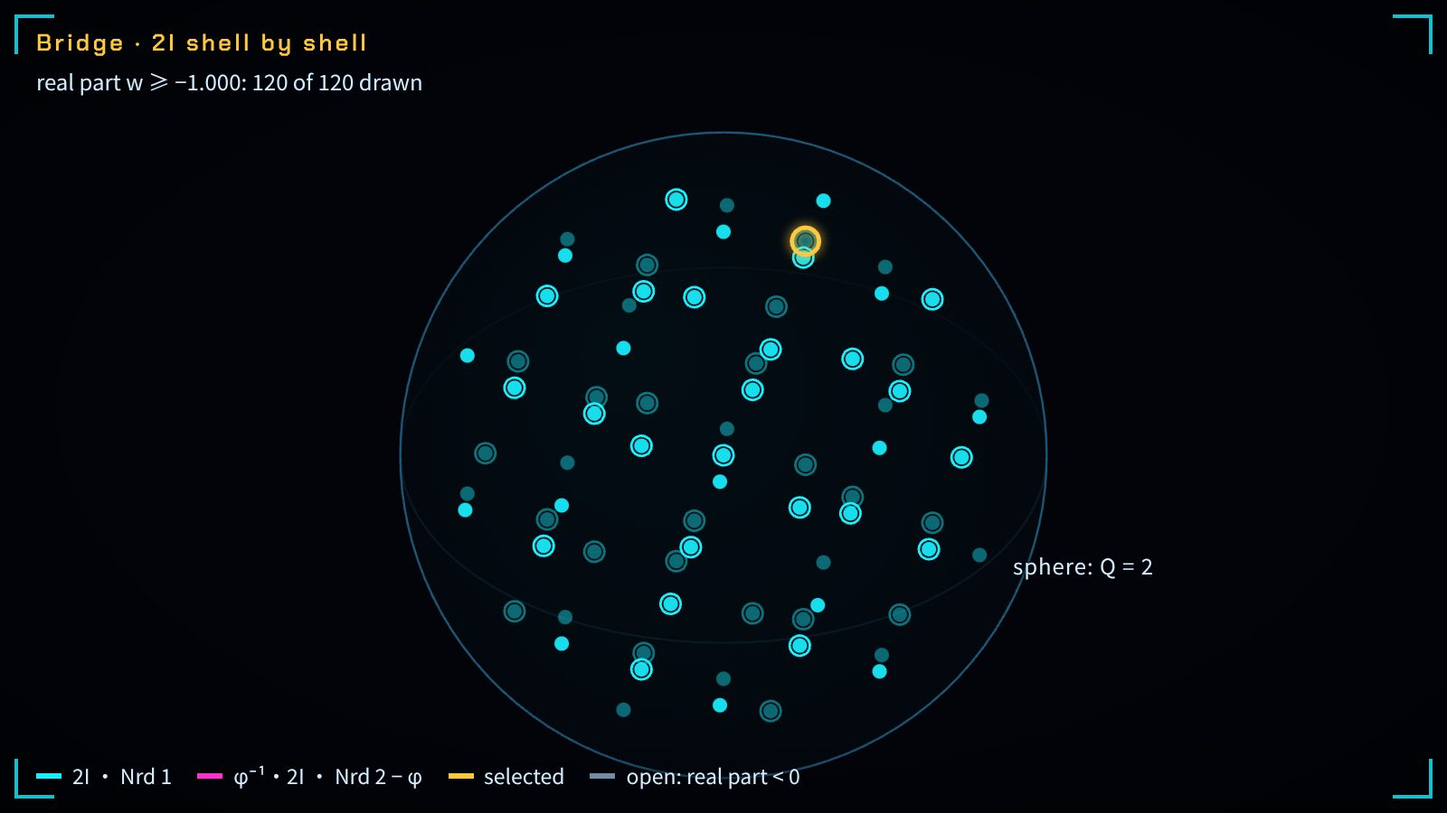
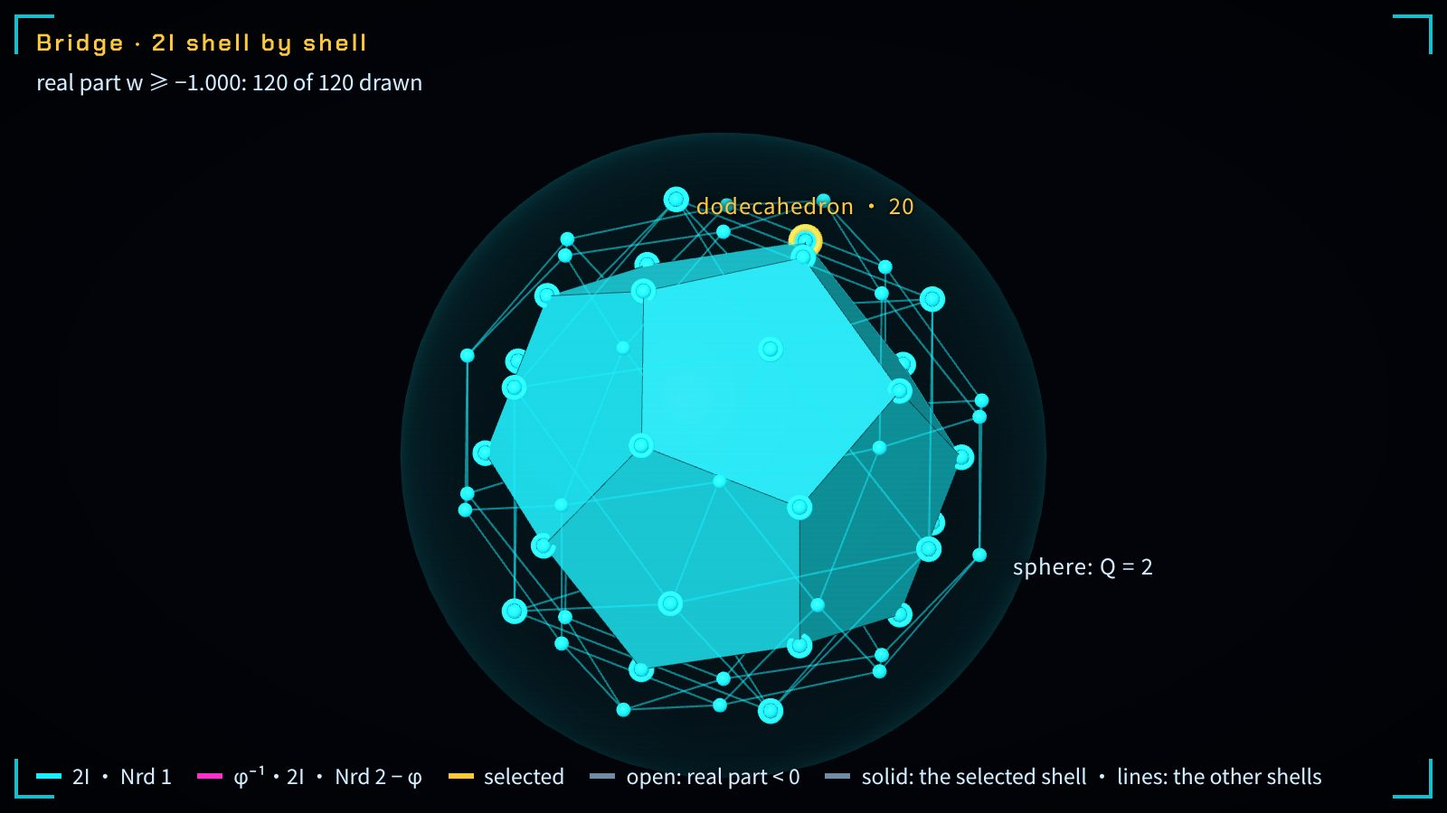
第 32 章黄金桥第一段：2I 的每一层连成凸包，选中那一层画成受光实体
meta-unification-compass 的 icosians 卡原来是一团点，看不出分层。第一段里页面把同一族、
同一个 |w| 的位置连成凸包（12 个为正二十面体、20 个为正十二面体、30 个为截半二十面体），
选中元素那一层画成平面着色的实体，其余各层画棱，舞台标签写出多面体名；读数加一行该层的
顶点、棱、面数，元素按钮加 (φ + φ⁻¹i + j)/2。其余各卡与封面照旧画在二维画布上，静态图不变。
测试用独立算法核对每一层的位置与凸包（最短距离定棱、欧拉公式定面、面平面凸且等边）。

diff --git a/books/quantum-geometry/viz/meta-unification-compass/main.js b/books/quantum-geometry/viz/meta-unification-compass/main.js
@@ -135,6 +135,55 @@
     return sign * A[n - 1][n - 1];
   }
 
+  /* ---------- shells: the elements of one family (2I or φ⁻¹·2I) with one |w|, and the convex hull of their places ----------
+     Each shell is computed from the elements themselves: its distinct places in E∥ (and, for the pure ones, in E⊥),
+     their convex hull by brute force over all triples (a face is a plane that has every place on one side; places on
+     the plane are ordered round the face), and the counts V, E, F with the sizes of the faces. */
+  function hull(pts) {
+    const n = pts.length, faces = [], seen = new Set(), c0 = v3.scale(pts.reduce((a, p) => v3.add(a, p), [0, 0, 0]), 1 / n);
+    const scale = Math.max(...pts.map((p) => v3.len(v3.sub(p, c0))));
+    for (let i = 0; i < n; i++) for (let j = i + 1; j < n; j++) for (let k = j + 1; k < n; k++) {
+      let nm = v3.cross(v3.sub(pts[j], pts[i]), v3.sub(pts[k], pts[i]));
+      const L = v3.len(nm); if (L < 1e-9 * scale * scale) continue;
+      nm = v3.scale(nm, 1 / L);
+      const tol = 1e-9 * scale, on = []; let pos = 0, neg = 0;
+      for (let m = 0; m < n; m++) { const s = v3.dot(nm, v3.sub(pts[m], pts[i])); if (s > tol) pos++; else if (s < -tol) neg++; else on.push(m); }
+      if (pos && neg) continue;
+      const id = on.join(','); if (seen.has(id)) continue; seen.add(id);
+      if (pos) nm = v3.scale(nm, -1);   // outward
+      const fc = v3.scale(on.reduce((a, m) => v3.add(a, pts[m]), [0, 0, 0]), 1 / on.length);
+      const e1 = v3.unit(v3.sub(pts[on[0]], fc)), e2 = v3.cross(nm, e1);
+      on.sort((a, b) => { const pa = v3.sub(pts[a], fc), pb = v3.sub(pts[b], fc); return Math.atan2(v3.dot(pa, e2), v3.dot(pa, e1)) - Math.atan2(v3.dot(pb, e2), v3.dot(pb, e1)); });
+      faces.push({ v: on, n: nm, d: v3.dot(nm, pts[on[0]]) });
+    }
+    const edges = new Set();
+    for (const f of faces) f.v.forEach((a, t) => { const b = f.v[(t + 1) % f.v.length]; edges.add(a < b ? `${a},${b}` : `${b},${a}`); });
+    const sizes = {}; for (const f of faces) sizes[f.v.length] = (sizes[f.v.length] || 0) + 1;
+    return { faces, V: n, E: edges.size, F: faces.length, sizes };
+  }
+  const NAMES = { '12,30,20,3:20': ['正二十面体', 'icosahedron'], '20,30,12,5:12': ['正十二面体', 'dodecahedron'], '30,60,32,3:20,5:12': ['截半二十面体', 'icosidodecahedron'] };
+  const nameOf = (h) => NAMES[[h.V, h.E, h.F, ...Object.keys(h.sizes).sort().map((s) => `${s}:${h.sizes[s]}`)].join(',')] || null;
+  const placeKey = (p) => p.map((x) => (Math.abs(x) < 5e-10 ? 0 : x).toFixed(8)).join(',');
+  const SHELLS = (() => {
+    const out = [];
+    for (const gold of [false, true]) {
+      const ws = [...new Set(ROOTS.filter((R) => R.gold === gold).map((R) => Math.abs(R.w).toFixed(9)))].map(Number).sort((a, b) => b - a);
+      for (const aw of ws) {
+        const members = ROOTS.filter((R) => R.gold === gold && Math.abs(Math.abs(R.w) - aw) < 1e-9).map((R) => R.i);
+        const sh = { gold, w: aw, members, count: members.length };
+        for (const [sp, field] of [['par', 'par'], ['perp', 'perp']]) {
+          if (sp === 'perp' && aw > 1e-9) continue;
+          const places = new Map();
+          for (const i of members) { const p = ROOTS[i][field]; const k = placeKey(p); if (!places.has(k)) places.set(k, p); }
+          const pts = [...places.values()], h = pts.length >= 4 ? hull(pts) : null;
+          sh[sp] = { pts, key: [...places.keys()].sort().join('|'), hull: h, name: h ? nameOf(h) : null, radius: Math.max(...pts.map((p) => v3.len(p))) };
+        }
+        out.push(sh);
+      }
+    }
+    return out;
+  })();
+  const shellOf = (i) => SHELLS.find((s) => s.members.includes(i));
   /* ---------- how to write a coordinate (p + rφ)/2 ---------- */
   function coef(p, r) {
     const v = (p + r * PHI) / 2;
@@ -242,6 +291,14 @@
     onChange: () => paint(),
     onPick: (ev, st) => pickAt(ev, st)
   });
+  // The first leg of the bridge (2I shell by shell) draws its shells as lit solids on a second stage, which follows the
+  // camera of the first: dragging and picking stay with the 2D stage; this one only draws and tells what a solid hides.
+  // Every other picture of the page is drawn on the 2D stage as before.
+  const solid = kit.solid($('stage'), {
+    canvas: $('cvs'), radius: TRV.thumbMode ? 0.38 : 0.36, cy: TRV.figure ? 0.54 : 0.56, yaw: -0.3, pitch: 0.5,
+    rotate: false, onChange: () => paint(), onPick: () => true
+  });
+  const solidLeg = (B) => S.scene === 'bridge' && B.leg === 0;
   function pickAt(ev, st) {
     let best = null, bd = 14;
     if (S.scene === 'compass') {
@@ -252,7 +309,8 @@
     const B = lastBridge || bridgeAt(S.tb);
     // the nearest dot under the pointer; of dots drawn on the same place, the one nearest the viewer
     let bz = -Infinity;
-    ROOTS.forEach((R, i) => { if (!B.vis[i]) return; const w = v3.scale(B.pos[i], DISP), d = st.near(ev, w), z = st.p(w)[2]; if (d < bd - 0.5 || (d < bd + 0.5 && d < 14 && z > bz)) { bd = Math.min(bd, d); bz = z; best = i; } });
+    const hides = solidLeg(B);
+    ROOTS.forEach((R, i) => { if (!B.vis[i]) return; const w = v3.scale(B.pos[i], DISP), d = st.near(ev, w), z = st.p(w)[2]; if (hides && solid.occluded(w, 0.02)) return; if (d < bd - 0.5 || (d < bd + 0.5 && d < 14 && z > bz)) { bd = Math.min(bd, d); bz = z; best = i; } });
     if (best == null) return false;
     cards.mark(null); select(best); return true;
   }
@@ -335,6 +393,65 @@
     }
     st.end();
   }
+  /* ---------- the first leg of the bridge: the shells as a solid and as cages ----------
+     While 2I appears shell by shell, every shell with a hull whose elements are on the stage is drawn. The shell of the
+     selected element (or, when it is not on the stage yet, the newest shell) is a lit, flat-shaded polyhedron; every
+     other shell is a cage of its edges, so that the shells around the solid stay visible and the solid hides what is
+     behind and inside it. */
+  let lastShells = [];
+  function shellsAt(B) {
+    const space = B.leg < 3 || B.alpha < 1e-9 ? 'par' : B.alpha > Math.PI / 2 - 1e-9 ? 'perp' : null;
+    if (!space) return [];
+    const list = [], keys = new Set();
+    for (const sh of SHELLS) {
+      const g = sh[space];
+      if (!g || !g.hull || !sh.members.some((i) => B.vis[i]) || keys.has(g.key)) continue;
+      keys.add(g.key); list.push({ sh, g, space, solid: false });
+    }
+    // the solid: the shell of the selected element; else the shell admitted last (its |w| nearest the cut)
+    let focus = B.vis[S.sel] ? list.find((x) => x.sh.members.includes(S.sel)) : null;
+    if (!focus && list.length) focus = list.slice().sort((x, y) => (B.leg < 2 ? x.sh.w - y.sh.w : y.sh.w - x.sh.w) || (x.sh.gold ? -1 : 1))[0];
+    if (focus) focus.solid = true;
+    return list;
+  }
+  /** The polyhedron of a shell on the stage: its vertices and faces. */
+  const solidOf = (s) => ({ vertices: s.g.pts.map((p) => v3.scale(p, DISP)), faces: s.g.hull.faces.map((f) => f.v.slice()) });
+  /** The edges of a shell (pairs of vertex indices). */
+  const edgesOf = (s) => { const e = new Map(); for (const f of s.g.hull.faces) f.v.forEach((a, t) => { const b = f.v[(t + 1) % f.v.length]; e.set(a < b ? `${a},${b}` : `${b},${a}`, [Math.min(a, b), Math.max(a, b)]); }); return [...e.values()]; };
+
+  function drawSolid() {
+    const st = solid, B = lastBridge = bridgeAt(S.tb), thumb = TRV.thumbMode;
+    Object.assign(st.cam, stage.cam);
+    st.begin();
+    // the sphere Q = 2 holds every projection of a root (a projection is never longer than the vector): a glass shell
+    st.glass('qsphere', [0, 0, 0], Math.SQRT2 * DISP, { color: P.cyan, alpha: 0.04, rim: 0.22 });
+    const shells = lastShells = shellsAt(B);
+    for (const s of shells) {
+      const col = s.sh.gold ? P.magenta : P.cyan, m = solidOf(s);
+      if (s.solid) st.poly('shell', m, { color: col, edges: P.stage, id: s.g.key });
+      else for (const [a, b] of edgesOf(s)) st.line([m.vertices[a], m.vertices[b]], { color: col, width: 1.1, alpha: 0.5 });
+    }
+    const front = [frontier(B, false), frontier(B, true)];
+    ROOTS.forEach((R, i) => {
+      if (!B.vis[i]) return;
+      const p = v3.scale(B.pos[i], DISP), col = R.gold ? P.magenta : P.cyan;
+      const fresh = B.leg === (R.gold ? 1 : 0) && Math.abs(R.w - front[R.gold ? 1 : 0]) < 1e-9;
+      if (R.w < -1e-9) st.ring(p, { r: R.gold ? 4.6 : 5.6, color: col, key: 'r' + i });
+      else st.bead(p, { r: R.gold ? 3.2 : 4, color: col, glow: fresh ? 0.9 : 0.45, key: 'r' + i });
+    });
+    // the selected element, and the name of the polyhedron its shell makes
+    if (B.vis[S.sel]) {
+      const p = v3.scale(B.pos[S.sel], DISP), s = shells.find((x) => x.sh.members.includes(S.sel));
+      st.ring(p, { r: 7.5, color: P.amber, key: 'sel' });
+      if (!thumb && s && s.g.name) st.tag('shell', p, `${L(...s.g.name)} · ${s.g.hull.V}`, 'raw c-am', { dy: -20 });
+    }
+    if (!thumb) {
+      const R = Math.SQRT2 * DISP;
+      st.tag('qsphere', [R * 0.72, -R * 0.72, -0.05], L('球面：Q = 2', 'sphere: Q = 2'), 'raw ink', { dx: 34, dy: 10, occlude: false });
+    }
+    st.end();
+  }
+
   /** The real part of the shell admitted last in the current leg (for the glow of the newest shell). */
   function frontier(B, gold) {
     let m = Infinity;
@@ -398,6 +515,13 @@
   }
 
   /* ---------- readouts, hud ---------- */
+  /** The shell of element i as the page computed it: how many elements, the polyhedron its places make, V · E · F. */
+  function shellText(i) {
+    const sh = shellOf(i), g = sh.par;
+    const n = L(`${sh.count} 个元素`, `${sh.count} elements`);
+    if (!g.hull) return `${n} · ${L('落在原点', 'at the origin')}`;
+    return `${n} · ${g.name ? L(...g.name) : '—'} · ${L('顶点', 'vertices')} ${g.hull.V} · ${L('棱', 'edges')} ${g.hull.E} · ${L('面', 'faces')} ${g.hull.F}`;
+  }
   const row = (cls, zh, en, val) => `<div class="${cls}"><dt>${L(zh, en)}</dt><dd>${val}</dd></div>`;
   const LEGEND = {
     compass: [['cy', '线（内积）', 'line (inner product)'], ['mg', '面积（外积）', 'area (outer product)'], ['am', '正在读 · 选中', 'being read · selected'], ['dm', '纲领（MODEL）', 'programmes (MODEL)']],
@@ -441,8 +565,8 @@
       rows = row('wide', '选中的元素 q', 'selected element q', qtext(R.q))
         + row('', 'Nrd q · Q', 'Nrd q · Q', `${nrdText(R.nrd)} · ${R.Q}`)
         + row('', '2I 乘法封闭', '2I closed under products', `${F.closed} / ${F.products}`)
-        + row('', 'Q = 2 的元素 · 两两的 B', 'elements with Q = 2 · B between them', `${F.qTwo} · ${F.integral ? L('整数', 'integers') : '—'} ${F.bRange[0]}…${F.bRange[1]}`.replace('-', '−'))
-        + row('', '每个根 B = 1 的邻居', 'neighbours with B = 1 per root', String(F.neighbours))
+        + row('wide', '选中元素所在的层', 'the shell of the selected element', shellText(S.sel))
+        + row('', 'Q = 2 的元素 · 两两的 B · B = 1 的邻居', 'elements with Q = 2 · B between them · neighbours with B = 1', `${F.qTwo} · ${F.integral ? L('整数', 'integers') : '—'} ${F.bRange[0]}…${F.bRange[1]} · ${F.neighbours}`.replace('-', '−'))
         + row('', '格拉姆行列式：𝓘（秩 8）· Im 𝓘（秩 6）', 'Gram determinant: 𝓘 (rank 8) · Im 𝓘 (rank 6)', `${F.det} · ${F.pureDet}`);
       note = B.leg === 0 ? L('去掉实部 w 投到三维：同一个 |w| 落在同一层球面上，层的大小 1、12、20、12、30……；实部为负的一半落在同样的位置，画成空心圈。', 'Dropping the real part w: elements with the same |w| land on one spherical shell, of sizes 1, 12, 20, 12, 30, …; the half with negative real part lands on the same places and is drawn as open rings.')
         : B.leg === 1 ? L('每个单位元乘上 φ⁻¹：在 E∥ 里缩短，Nrd 变成 2 − φ，可 Q = 2(a + b) 仍是 2。两份合起来 240 个，两两的 B 都是整数，每个恰有 56 个邻居：这是 E₈ 的根。', 'Each unit times φ⁻¹: shorter in E∥, Nrd becomes 2 − φ, yet Q = 2(a + b) is still 2. Together 240 of them, every B between two of them an integer, each with exactly 56 neighbours: the roots of E₈.')
@@ -456,10 +580,16 @@
     $('roNote').textContent = note; $('roAside').textContent = aside;
     $('pillScene').querySelector('strong').textContent = { compass: L('罗盘', 'COMPASS'), bridge: L('黄金桥', 'BRIDGE') }[S.scene];
     $('pillKeyName').textContent = pill[0]; $('pillKey').querySelector('strong').textContent = pill[1];
-    $('legend').innerHTML = LEGEND[S.scene].concat(S.scene === 'compass' && S.book ? [['dm', '大空心圈：本书（MODEL）', 'large open ring: the book (MODEL)']] : []).map(([cl, zh, en]) => `<span><i class="sw ${cl}"></i>${L(zh, en)}</span>`).join('');
+    $('legend').innerHTML = LEGEND[S.scene].concat(S.scene === 'compass' && S.book ? [['dm', '大空心圈：本书（MODEL）', 'large open ring: the book (MODEL)']] : [])
+      .concat(S.scene === 'bridge' && bridgeAt(S.tb).leg === 0 ? [['dm', '实体：选中那一层 · 细线：其余各层', 'solid: the selected shell · lines: the other shells']] : []).map(([cl, zh, en]) => `<span><i class="sw ${cl}"></i>${L(zh, en)}</span>`).join('');
   }
 
-  function drawStage() { if (S.scene === 'compass') drawCompass(); else drawBridge(); }
+  function drawStage() {
+    if (S.scene === 'bridge' && bridgeAt(S.tb).leg === 0) { stage.begin(); stage.end(); drawSolid(); return; }
+    lastShells = [];
+    solid.begin(); solid.end();
+    if (S.scene === 'compass') drawCompass(); else drawBridge();
+  }
   const paint = kit.painter(() => { drawStage(); drawText(); drawPlot(); }, [$('stage'), $('plot')]);
 
   /* ---------- the rail ---------- */
@@ -499,7 +629,7 @@
   const bookChips = kit.chips($('bookChips'), 'book', (v) => { leave(); S.book = v === 'on'; if (!S.book && S.prog === 'book') S.prog = null; paint(); });
   const find = (q) => ROOTS.findIndex((R) => key(R.q) === key(q));
   const GOLDEN = [0, 0, 1, 0, -1, 1, 0, 1];
-  const PICKS = [['one', find([2, 0, 0, 0, 0, 0, 0, 0])], ['i', find([0, 0, 2, 0, 0, 0, 0, 0])], ['hurwitz', find([1, 0, 1, 0, 1, 0, 1, 0])], ['golden', find(GOLDEN)], ['shrunk', 120 + TWO_I.findIndex((q) => key(q) === key(GOLDEN))]];
+  const PICKS = [['one', find([2, 0, 0, 0, 0, 0, 0, 0])], ['i', find([0, 0, 2, 0, 0, 0, 0, 0])], ['hurwitz', find([1, 0, 1, 0, 1, 0, 1, 0])], ['golden', find(GOLDEN)], ['shrunk', 120 + TWO_I.findIndex((q) => key(q) === key(GOLDEN))], ['inner', find([0, 1, -1, 1, 1, 0, 0, 0])]];
   const pickChips = kit.chips($('pickChips'), 'pick', (v) => { leave(); const hit = PICKS.find(([n]) => n === v); if (hit) select(hit[1]); });
   $('rew').addEventListener('click', () => { clock.pause(); clock.set(0); });
   kit.keys({ 1: () => { leave(); setScene('compass'); }, 2: () => { leave(); setScene('bridge'); } });
@@ -519,7 +649,7 @@
     cube: ['三根轴取自 §32.3：θ 从线（青）到面积（品红），η 从光滑到多面体，λ 从球外的点 C 到场内的观察者。八个点是 §32.4 的八家纲领，按总表原话落在各轴的三段之一（本书的诊断坐标）。', 'The three axes come from §32.3: θ runs from line (cyan) to area (magenta), η from smooth to polytope, λ from the outside point C to the observer inside. The eight dots are the eight programmes of §32.4, each in one of three bands of every axis according to the words of the table (the book\'s diagnostic coordinates).'],
     camps: ['时间轴逐个读四大阵营，每一对连成一条线，琥珀色是正在读的那一对：弦论与圈量子引力只在 η 上分开（光滑对多面体）；AdS/CFT 与扭量都贴着 λ 的球外一端；第三、第四阵营的两家在两三根轴上都不同。', 'The rail reads the four camps one by one and joins each pair with a line; the pair being read is amber. String theory and loop quantum gravity part only along η (smooth against polytope); AdS/CFT and twistors both sit at the outside end of λ; the two programmes of the third and fourth camps differ along two or three axes.'],
     crystal: ['画出本书给自己标的位置：θ 中段（几何积同时保留线与面积）、η 多面体一端、λ 场内一端。这是本书的诠释（MODEL），不是由八家纲领推出的结论。', 'The book\'s place for itself, drawn in: θ in the middle (the geometric product keeps line and area together), η at the polytope end, λ at the inside end. This is the book\'s reading (MODEL), not a conclusion derived from the eight programmes.'],
-    icosians: ['二元二十面体群的 120 个单位四元数，去掉实部 w 投到三维，按 w 从 1 到 −1 一层层出现：1、12、20、12、30、12、20、12、1；实部为负的一半落在同样的位置，画成空心圈。琥珀圈是 (1 + i + j + k)/2。', 'The 120 unit quaternions of the binary icosahedral group, projected to three dimensions by dropping the real part w, appear shell by shell as w runs from 1 to −1: 1, 12, 20, 12, 30, 12, 20, 12, 1; the half with negative real part lands on the same places, drawn as open rings. The amber ring is (1 + i + j + k)/2.'],
+    icosians: ['二元二十面体群的 120 个单位四元数，去掉实部 w 投到三维，按 w 从 1 到 −1 一层层出现：1、12、20、12、30、12、20、12、1；实部为负的一半落在同样的位置，画成空心圈。琥珀圈是 (1 + i + j + k)/2：它那一层的 20 个位置围成实心的正十二面体，其余各层只画出棱。', 'The 120 unit quaternions of the binary icosahedral group, projected to three dimensions by dropping the real part w, appear shell by shell as w runs from 1 to −1: 1, 12, 20, 12, 30, 12, 20, 12, 1; the half with negative real part lands on the same places, drawn as open rings. The amber ring is (1 + i + j + k)/2: the 20 places of its shell enclose a solid dodecahedron, and the other shells are drawn by their edges.'],
     e8: ['再加上 120 个乘了 φ⁻¹ 的品红点：它们在 E∥ 里更短，Nrd = 2 − φ，Q = 2(a + b) 却仍是 2。青色与品红合起来 240 个，正是 E₈ 的根数。琥珀圈是 φ⁻¹(i + φ⁻¹j + φk)/2。', 'Add the 120 magenta points multiplied by φ⁻¹: shorter in E∥, with Nrd = 2 − φ, yet Q = 2(a + b) is still 2. Cyan and magenta together make 240, exactly the number of roots of E₈. The amber ring is φ⁻¹(i + φ⁻¹j + φk)/2.'],
     fold: ['只留实部为零的 60 个根，再把投影平面从 E∥ 转到 E⊥：青色的 30 个单位从外层落到内层，品红的 30 个从内层翻到外层，淡色的圈是它们在 E∥ 里的位置。琥珀圈是 (i + φ⁻¹j + φk)/2：‖∥‖² + ‖⊥‖² 始终是 2。', 'Keep the 60 roots with real part zero and turn the plane of projection from E∥ to E⊥: the 30 cyan units fall from the outer shell to the inner, the 30 magenta ones rise from the inner to the outer, and the faint rings are where they were in E∥. The amber ring is (i + φ⁻¹j + φk)/2: ‖∥‖² + ‖⊥‖² stays 2.']
   };
@@ -557,6 +687,10 @@
         bridge: { t: S.tb, leg: B.leg, n: B.n, units: B.units, golden: B.golden, alpha: B.alpha, sel: S.sel, visible: B.vis.map((v, i) => (v ? i : -1)).filter((i) => i >= 0), pos: B.pos.map((p) => p.slice()) },
         roots: ROOTS.map((R) => ({ q: R.q.slice(), gold: R.gold, nrd: R.nrd.slice(), Q: R.Q, par: R.par.slice(), perp: R.perp.slice(), par2: R.par2, perp2: R.perp2, text: qtext(R.q) })),
         facts: JSON.parse(JSON.stringify(FACTS)),
+        shells: SHELLS.map((sh) => ({ gold: sh.gold, w: sh.w, members: sh.members.slice(), count: sh.count,
+          spaces: Object.fromEntries(['par', 'perp'].filter((k) => sh[k]).map((k) => [k, { pts: sh[k].pts.map((p) => p.slice()), name: sh[k].name && sh[k].name[1],
+            hull: sh[k].hull && { V: sh[k].hull.V, E: sh[k].hull.E, F: sh[k].hull.F, sizes: Object.assign({}, sh[k].hull.sizes), faces: sh[k].hull.faces.map((f) => f.v.slice()) } }])) })),
+        drawn: lastShells.map((s) => ({ gold: s.sh.gold, w: s.sh.w, space: s.space, solid: s.solid, poly: solidOf(s), edges: edgesOf(s) })),
         hud: $('hudBig').textContent, sub: $('hudSub').textContent, key: $('ro').querySelector('.key dd').textContent
       };
     },
@@ -566,6 +700,8 @@
       const b = $('cv').getBoundingClientRect(), w = typeof what === 'number' ? v3.scale(bridgeAt(S.tb).pos[what], DISP) : world(byId(what).c), q = stage.p(w);
       return [b.left + q[0], b.top + q[1]];
     },
+    /** The world point where root i is drawn on the bridge now. */
+    world: (i) => v3.scale(bridgeAt(S.tb).pos[i], DISP),
     camera: () => Object.assign({}, stage.cam)
   };
   window.TRV_THUMB = () => { applyPreset('e8'); cards.mark('e8'); clock.pause(); clock.set(2); paint.now(); };

diff --git a/books/quantum-geometry/viz/meta-unification-compass/index.html b/books/quantum-geometry/viz/meta-unification-compass/index.html
@@ -71,6 +71,7 @@
       <div class="chips" id="pickChips" role="group" aria-label="选中一个元素" data-aria-en="Select an element">
         <button class="chip" data-pick="one" aria-pressed="false">1</button>
         <button class="chip" data-pick="i" aria-pressed="false">i</button>
+        <button class="chip" data-pick="inner" aria-pressed="false">(φ + φ⁻¹i + j)/2</button>
         <button class="chip" data-pick="hurwitz" aria-pressed="false">(1+i+j+k)/2</button>
         <button class="chip" data-pick="golden" aria-pressed="false">(i + φ⁻¹j + φk)/2</button>
         <button class="chip" data-pick="shrunk" aria-pressed="false"><span class="zh">φ⁻¹ ·</span><span class="en">φ⁻¹ ·</span> (i + φ⁻¹j + φk)/2</button>
@@ -80,6 +81,7 @@
 
   <main class="center">
     <div class="stage" id="stage" data-thumb aria-label="舞台：三维诊断立方体里的八家统一纲领；或二元二十面体群的 120 个单位四元数及其黄金缩小版的三维投影" data-aria-en="Stage: eight unification programmes in the three-axis diagnostic cube; or the 120 unit quaternions of the binary icosahedral group and their golden shrunken copies, projected to three dimensions">
+      <canvas class="fill" id="cvs"></canvas>
       <canvas class="fill" id="cv"></canvas>
       <div class="scan"></div><div class="vig"></div>
       <span class="bracket tl"></span><span class="bracket tr"></span><span class="bracket bl"></span><span class="bracket br"></span>
@@ -146,7 +148,7 @@
       <p class="lede">第三十二章下半篇的两个画面：一只诊断立方体，一座四元数黄金桥。前者是本书的诠释示意，后者的每个数都在 ℤ[φ] 里精确算出；本页是计算与诠释示意，不是证明。</p>
       <ol>
         <li><b>罗盘。</b>三根轴照 §32.3 的定义：θ 是代数阶数（0 端是一维内积的点线，1 端是二维外积的面积），η 是几何分辨率（0 端是可以无限细分的光滑流形，1 端是有限门的多面体晶格），λ 是观察者的位置（0 端是球外全知的点 C，1 端是场内有限记忆的观察者）。每根轴分三段：§32.4 总表在“它摸到的”“它残留的外部点 C”两栏里点明偏向哪一端，就落在那一端的三分之一里；没点明或两端都有，就落在中间三分之一里，几家挤在同一格时在格内错开。坐标只表示落在哪一段，段内的位置没有意义。四大阵营照 §32.4 配对：弦论与圈量子引力，AdS/CFT 与扭量—振幅多面体，非对易几何与 E₈ 晶格同 Wolfram 超图与因果集，朗兰兹纲领与同伦类型论同熵引力、主动推理与惠勒自激回路。这些位置都是本书的比较诊断坐标（MODEL），不贬损任何学科，也不替任何学科的结论背书；本书没有形式化地取代哪一家，“本书的位置”只是本书对自己的诠释。§32.4 给各阵营附上的冻结定理见正文，本页不复述。</li>
-        <li><b>二元二十面体群 2I。</b>±1、±i、±j、±k（8 个），(±1 ± i ± j ± k)/2（16 个），以及 (0, ±1, ±φ⁻¹, ±φ)/2 的偶置换（96 个），共 120 个单位四元数，其中前 24 个是 Hurwitz 单位。页面在 ℤ[φ] 里精确核对它们对乘法封闭。投影去掉实部 w：同一个 |w| 的元素落在同一层球面上，层的大小依次是 1、12、20、12、30、12、20、12、1；实部为负的一半落在与实部为正的一半相同的位置上，画成空心圈。</li>
+        <li><b>二元二十面体群 2I。</b>±1、±i、±j、±k（8 个），(±1 ± i ± j ± k)/2（16 个），以及 (0, ±1, ±φ⁻¹, ±φ)/2 的偶置换（96 个），共 120 个单位四元数，其中前 24 个是 Hurwitz 单位。页面在 ℤ[φ] 里精确核对它们对乘法封闭。投影去掉实部 w：同一个 |w| 的元素落在同一层球面上，层的大小依次是 1、12、20、12、30、12、20、12、1；实部为负的一半落在与实部为正的一半相同的位置上，画成空心圈。第一段（按实部一层层画出 2I）里，页面把每一层的位置连成凸包：12 个位置围成正二十面体，20 个围成正十二面体，30 个围成截半二十面体（顶点、棱、面的个数由页面从这些位置算出）；选中元素所在的那一层画成实体，其余各层只画出棱。</li>
         <li><b>E₈。</b>2I 张成艾柯西安环 𝓘。约化范数 Nrd q = q q̄ = a + bφ（a、b ∈ ℤ），Q(q) = 2(a + b) = (2φ/√5)‖q‖² + (2φ⁻¹/√5)‖q<sup>σ</sup>‖²，σ 把 φ 换成 1 − φ。Q = 2 的元素恰有 240 个：2I 的 120 个（Nrd = 1）与 φ⁻¹·2I 的 120 个（Nrd = 2 − φ）。页面核对：240 个根两两的 B(x, y) = (Q(x + y) − Q(x) − Q(y))/2 都是 −2…2 的整数，每个根恰有 56 个 B = 1 的邻居，𝓘 的一组 ℤ-基的格拉姆行列式为 1。舞台按带权坐标 (√(2φ/√5) q, √(2φ⁻¹/√5) q<sup>σ</sup>) 画，所以 ‖∥‖² + ‖⊥‖² 就是 Q。</li>
         <li><b>纯虚部分与 E∥ ⊕ E⊥。</b>实部为零的根有 60 个（30 个单位、30 个黄金缩小版）。纯虚子模 Im 𝓘 的秩是 6，作为加法群就是 ℤ⁶；页面另外算出，配上 Q 后它的格拉姆行列式是 4，最短向量正是这 60 个：这是 D₆ 格（ℤ⁶ 里坐标和为偶数的那一半），不是带标准内积的 ℤ⁶。最后一段把投影平面从 E∥ 转到 E⊥：单位的那 30 个从外层落到内层，黄金缩小版从内层翻到外层，而每一个的 ‖∥‖² + ‖⊥‖² 始终等于 2。</li>
       </ol>
@@ -156,7 +158,7 @@
       <p class="lede">Two pictures from the second half of Chapter 32: a diagnostic cube and a golden quaternion bridge. The first is an interpretive sketch of this book; every number in the second is computed exactly in ℤ[φ]. The page is computation and interpretive sketch, not a proof.</p>
       <ol>
         <li><b>Compass.</b> The three axes follow §32.3: θ is algebraic grade (0 is the points and lines of the one-dimensional inner product, 1 the area of the two-dimensional outer product), η is geometric resolution (0 a smooth manifold that can be divided without end, 1 the polytope lattice of a finite number of gates), and λ is where the observer stands (0 the all-seeing point C outside the sphere, 1 an observer with finite memory inside the field). Each axis has three bands: when the §32.4 table says, in its columns “what it touched” and “the external point C it keeps”, which end a programme leans to, it sits in that end's third; when the table names neither end or both, it sits in the middle third, and several programmes sharing a cell are spread out inside it. A coordinate says only which band; the place inside a band means nothing. The four camps are paired as in §32.4: string theory with loop quantum gravity; AdS/CFT with twistors and the amplituhedron; noncommutative geometry and the E₈ lattice with Wolfram hypergraphs and causal sets; the Langlands programme and homotopy type theory with entropic gravity, active inference and Wheeler's self-excited circuit. All these places are this book's comparative diagnostic coordinates (MODEL); they belittle no field and vouch for no field's conclusions, the book does not formally replace any programme, and “the book's place” is only its reading of itself. The frozen theorems §32.4 attaches to each camp are in the chapter; this page does not repeat them.</li>
-        <li><b>The binary icosahedral group 2I.</b> ±1, ±i, ±j, ±k (8), (±1 ± i ± j ± k)/2 (16), and the even permutations of (0, ±1, ±φ⁻¹, ±φ)/2 (96): 120 unit quaternions, the first 24 of them the Hurwitz units. The page checks exactly in ℤ[φ] that they are closed under multiplication. The projection drops the real part w: elements with the same |w| lie on one spherical shell, and the shells hold 1, 12, 20, 12, 30, 12, 20, 12 and 1 elements; the half with negative real part lands on the same places as the half with positive real part and is drawn as open rings.</li>
+        <li><b>The binary icosahedral group 2I.</b> ±1, ±i, ±j, ±k (8), (±1 ± i ± j ± k)/2 (16), and the even permutations of (0, ±1, ±φ⁻¹, ±φ)/2 (96): 120 unit quaternions, the first 24 of them the Hurwitz units. The page checks exactly in ℤ[φ] that they are closed under multiplication. The projection drops the real part w: elements with the same |w| lie on one spherical shell, and the shells hold 1, 12, 20, 12, 30, 12, 20, 12 and 1 elements; the half with negative real part lands on the same places as the half with positive real part and is drawn as open rings. In the first leg (2I drawn shell by shell) the page joins the places of each shell into their convex hull: 12 places enclose an icosahedron, 20 a dodecahedron, 30 an icosidodecahedron (the numbers of vertices, edges and faces are computed by the page from the places); the shell of the selected element is drawn solid and the other shells by their edges.</li>
         <li><b>E₈.</b> 2I spans the icosian ring 𝓘. The reduced norm is Nrd q = q q̄ = a + bφ (a, b ∈ ℤ) and Q(q) = 2(a + b) = (2φ/√5)‖q‖² + (2φ⁻¹/√5)‖q<sup>σ</sup>‖², where σ replaces φ by 1 − φ. Exactly 240 elements have Q = 2: the 120 of 2I (Nrd = 1) and the 120 of φ⁻¹·2I (Nrd = 2 − φ). The page checks that B(x, y) = (Q(x + y) − Q(x) − Q(y))/2 between any two of the 240 roots is an integer from −2 to 2, that each root has exactly 56 neighbours with B = 1, and that a ℤ-basis of 𝓘 has Gram determinant 1. The stage uses the weighted coordinates (√(2φ/√5) q, √(2φ⁻¹/√5) q<sup>σ</sup>), so ‖∥‖² + ‖⊥‖² is Q itself.</li>
         <li><b>The pure part and E∥ ⊕ E⊥.</b> Sixty roots have real part zero (30 units and 30 golden shrunken copies). The pure submodule Im 𝓘 has rank 6, so as an additive group it is ℤ⁶; the page also computes that with Q its Gram determinant is 4 and its shortest vectors are exactly these 60: it is the lattice D₆ (the half of ℤ⁶ with even coordinate sum), not ℤ⁶ with the standard inner product. The last leg turns the plane of projection from E∥ to E⊥: the 30 units fall from the outer shell to the inner one, the golden copies rise from the inner shell to the outer one, and ‖∥‖² + ‖⊥‖² stays 2 for every one of them.</li>
       </ol>
